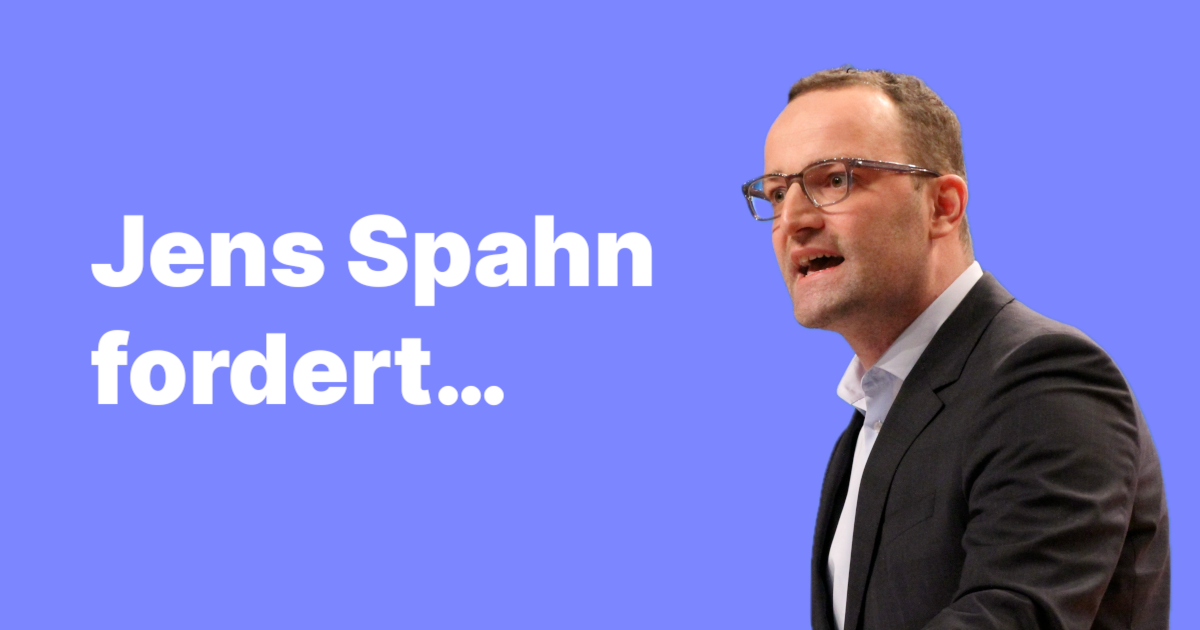
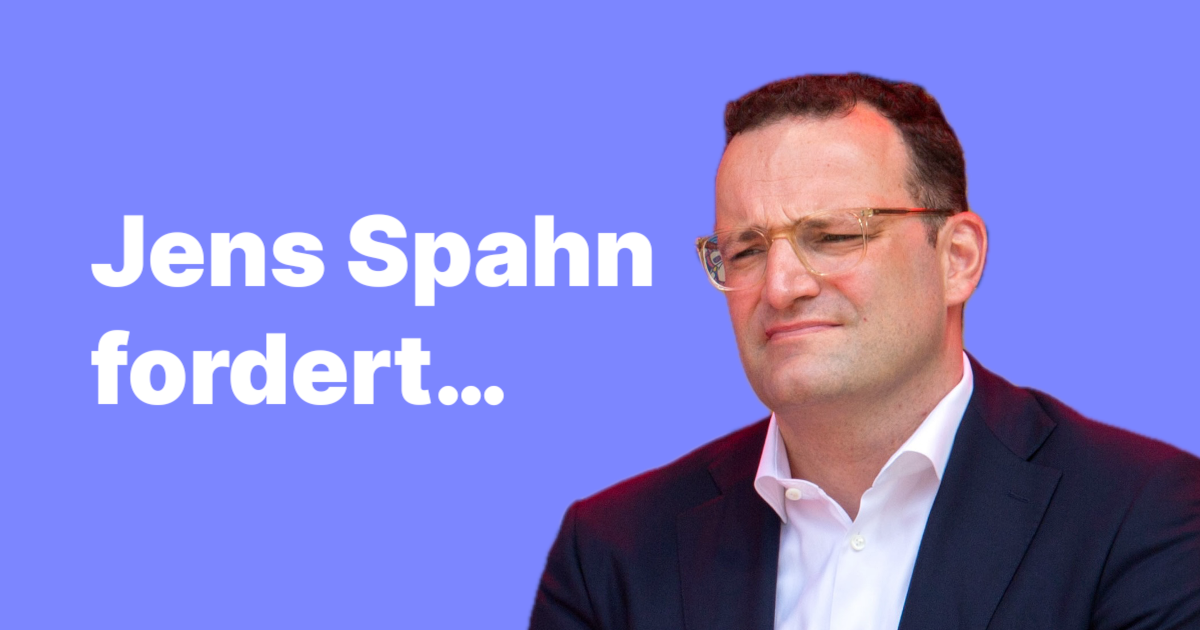
🍱 swap spahn image

Changed region(s): [[0.4317, 0.0905, 1.0, 1.0]]

diff --git a/README.md b/README.md
@@ -11,4 +11,4 @@ pnpm dev
 
 ## License
 
-See [license](./LICENSE.txt). The image of Jens Spahn is a modified version by [Olaf Kosinsky / Wikipedia](https://commons.wikimedia.org/wiki/File:Jens_Spahn_CDU_Parteitag_2014_by_Olaf_Kosinsky-24.jpg), [CC-BY-SA 3.0 DE](https://creativecommons.org/licenses/by-sa/3.0/de/deed.en)
+See [license](./LICENSE.txt). The image of Jens Spahn is a modified version by [Rosa Luxemburg-Stiftung](https://flic.kr/p/2gjjX5t), [CC-BY 2.0 DE](https://creativecommons.org/licenses/by/2.0/deed.de)
